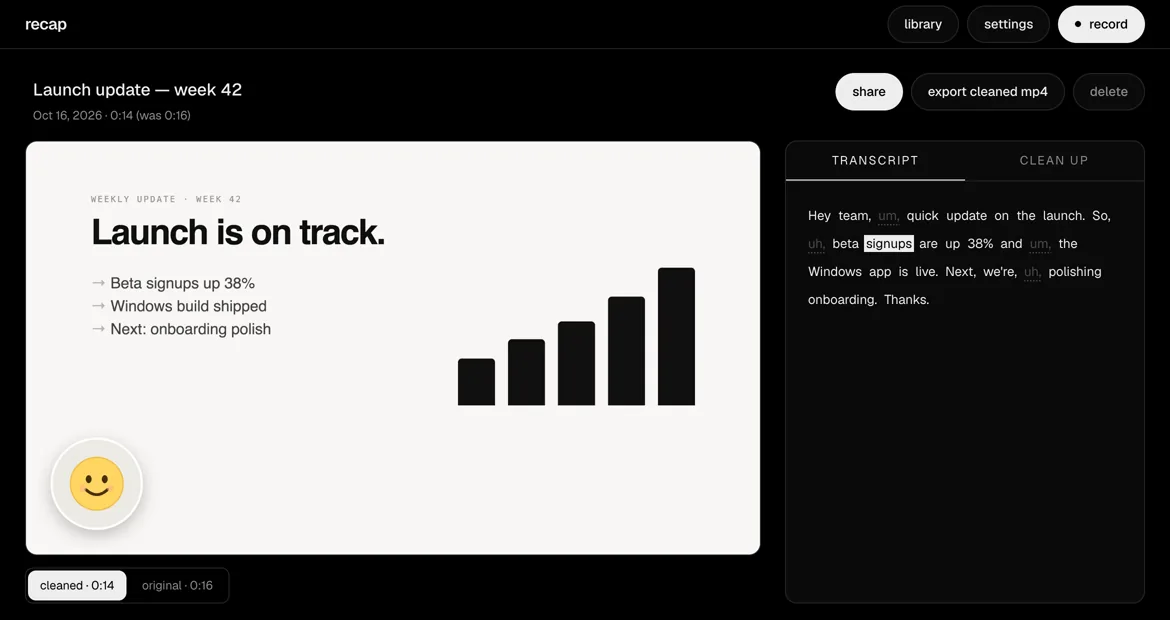
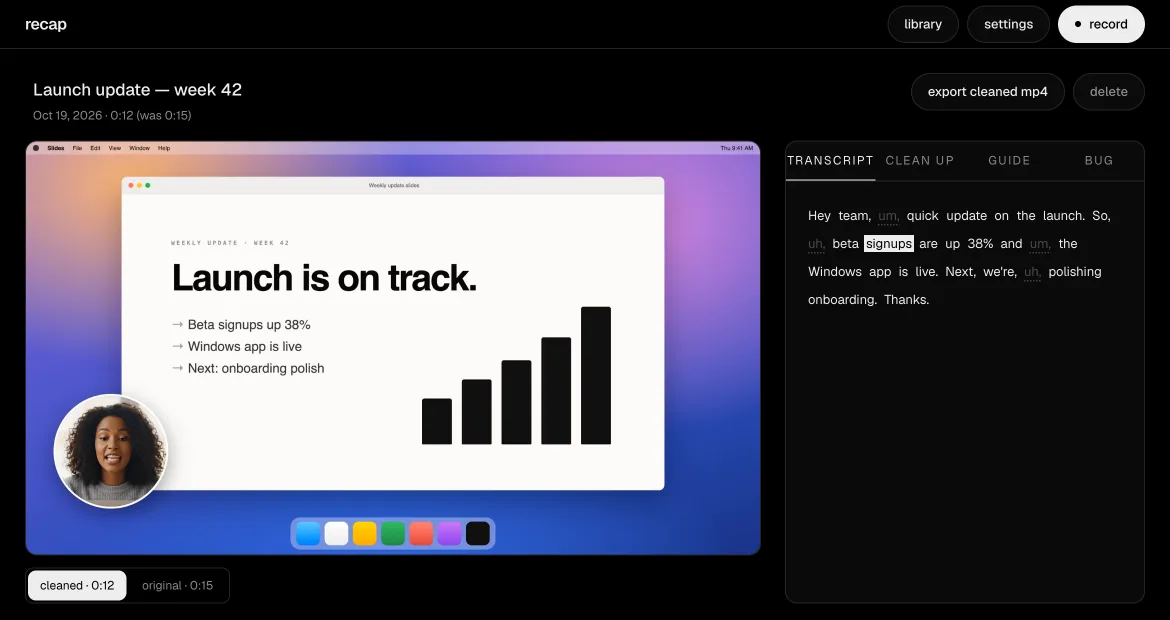
Site: hero screenshot shows a real person in the camera bubble recording a slide on a Mac desktop (replaces the emoji)

Changed region(s): [[0.0, 0.2145, 0.8, 0.9194], [0.7077, 0.0919, 0.7692, 0.1839], [0.8615, 0.2452, 0.9538, 0.2758]]

diff --git a/site/public/index.html b/site/public/index.html
@@ -51,8 +51,8 @@
     <section class="wrap showcase" aria-label="What Recap looks like">
       <figure class="shot">
         <div class="chrome"><span></span><span></span><span></span><p>Recap</p></div>
-        <img src="/app-1440.webp?v=2" srcset="/app-1440.webp?v=2 1170w, /app.webp?v=2 2340w" sizes="(max-width: 1080px) 100vw, 1032px"
-          width="1170" height="620" alt="Recap showing a recorded update with its transcript, where the ums are greyed out and the cleaned video is 0:14 instead of 0:16" />
+        <img src="/app-1440.webp?v=3" srcset="/app-1440.webp?v=3 1170w, /app.webp?v=3 2340w" sizes="(max-width: 1080px) 100vw, 1032px"
+          width="1170" height="620" alt="Recap showing a recorded team update: a slide on a Mac desktop with the presenter in a camera bubble, the transcript with the ums greyed out, and the cleaned video at 0:12 instead of 0:15" />
       </figure>
     </section>
 
